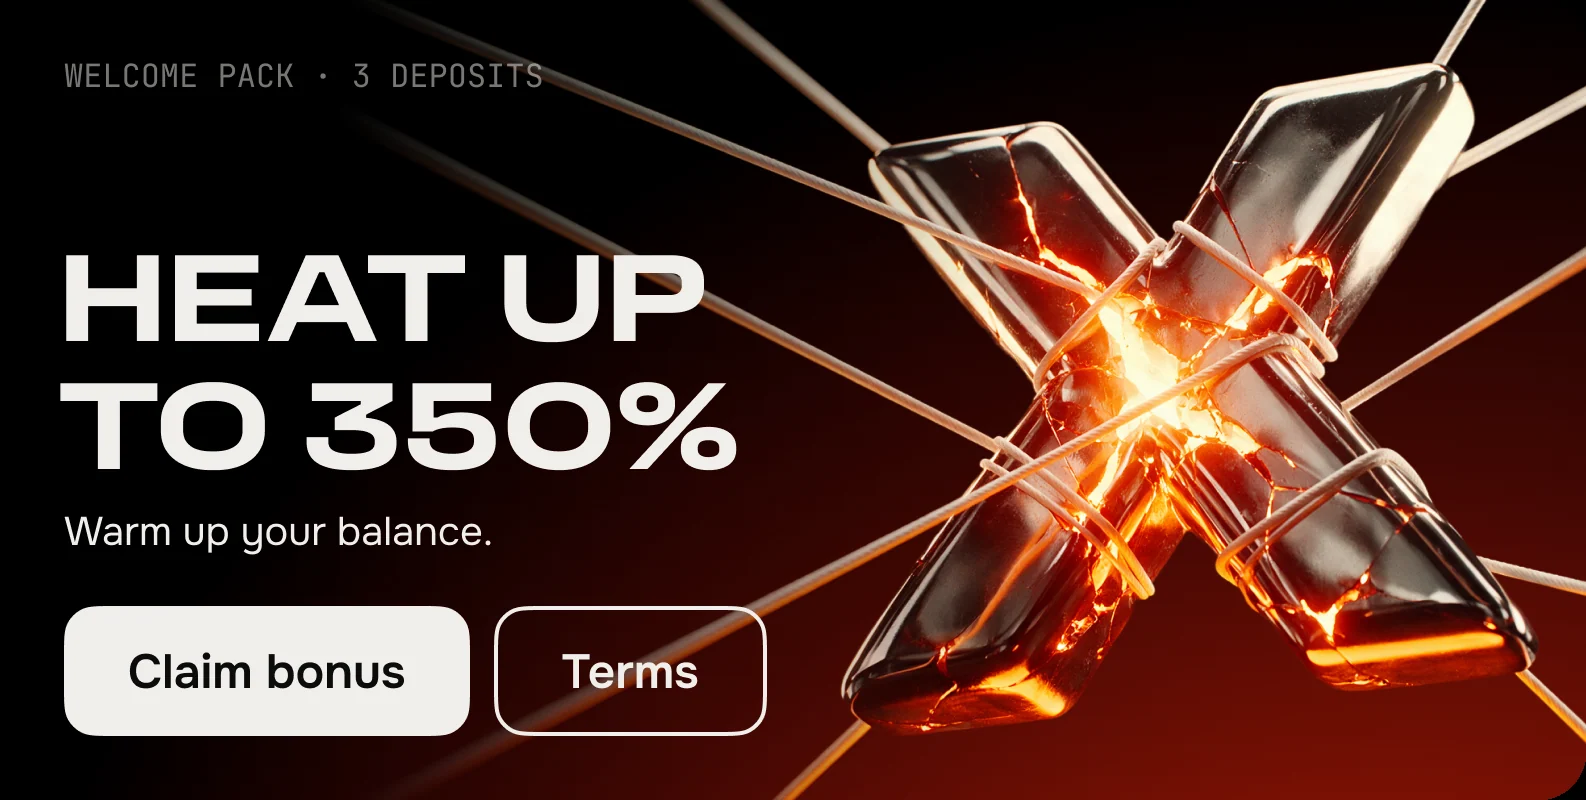
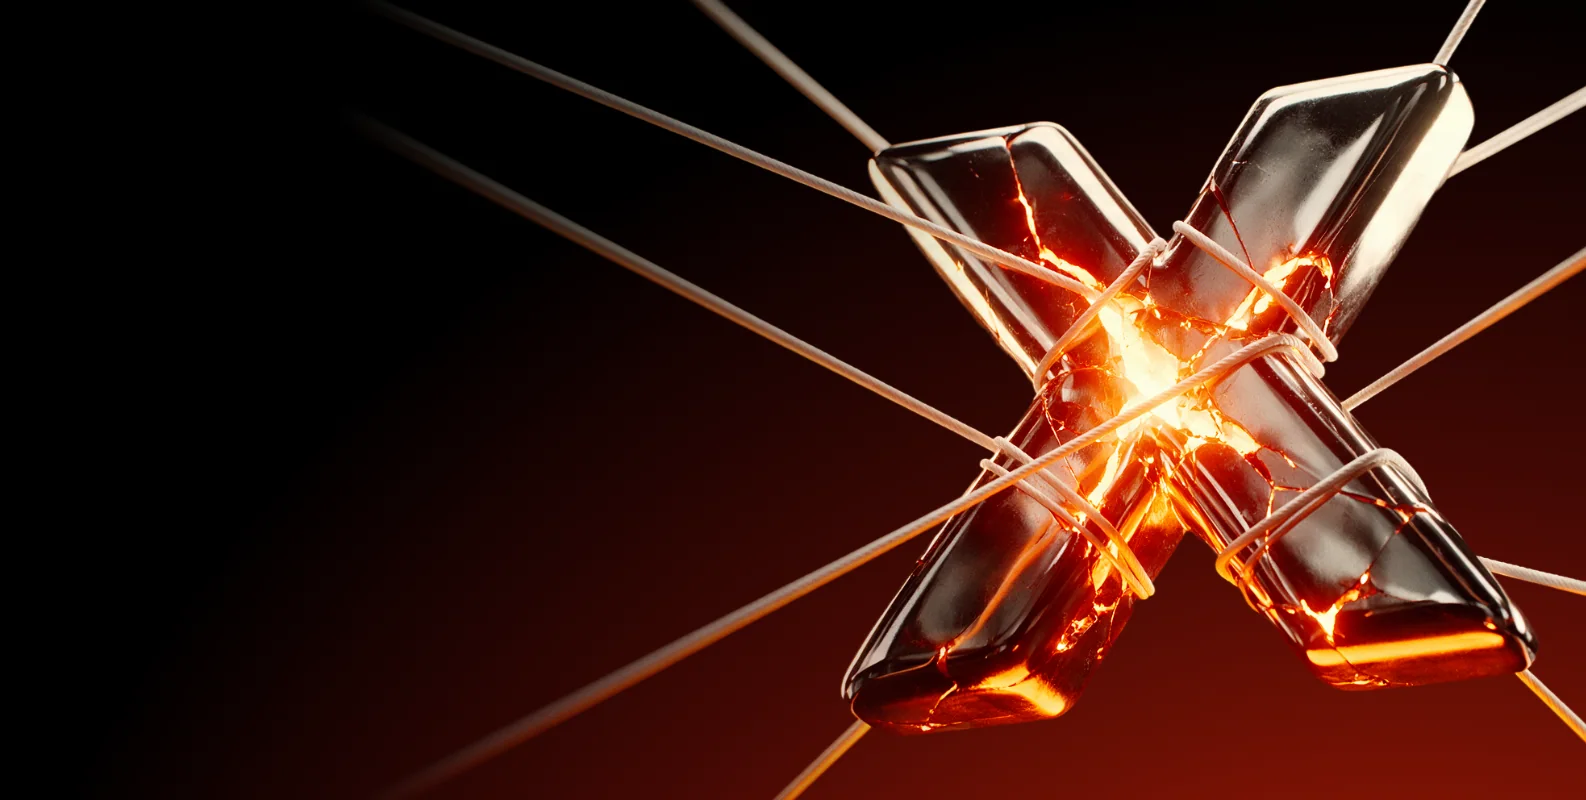
RioBet: баннеры ниже (300px), текст и кнопки живым HTML

diff --git a/index.html b/index.html
@@ -6691,8 +6691,8 @@ body:not(.is-authed) [data-auth-only] { display: none !important; }
    и на широком экране вытягивался в длинную тонкую полосу. Теперь высота
    своя, а карточки справа забирают больше ширины. */
 @media (min-width: 1024px) {
-  .hero__banner { aspect-ratio: 1586 / 800 !important; height: auto; }
-  .hero__side { flex: 0 0 38%; }
+  .hero__banner { aspect-ratio: auto !important; height: 300px; }
+  .hero__side { flex: 0 0 28%; }
 }
 
 /* Разделы в шапке — по образцу 1win: тёмная подложка, крупные вкладки,
@@ -6721,27 +6721,40 @@ body:not(.is-authed) [data-auth-only] { display: none !important; }
 .category-grid[hidden] { display: none; }
 
 /* ── Слайдер баннеров (Figma 315:4629) ──
-   Баннер 1586×800 показан целиком, поэтому коробка держит его пропорцию:
-   тогда невидимые кнопки ложатся ровно на нарисованные. */
-.bsl { position: relative; width: 100%; aspect-ratio: 1586 / 800; border-radius: inherit; overflow: hidden; }
+   Макет 1586×800. Текст и кнопки меряются в cqh — долях высоты баннера,
+   поэтому раскладка та же при любой пропорции; арт тянется по ширине и
+   прижат вправо. На компьютере баннер низкий и вытянутый (21:8), на
+   телефоне — пропорция макета. */
+.bsl { position: relative; width: 100%; aspect-ratio: 21 / 8; border-radius: inherit; overflow: hidden; background: #000; }
 .bsl__track { display: flex; width: 100%; height: 100%; overflow-x: auto; scroll-snap-type: x mandatory;
               scroll-behavior: smooth; scrollbar-width: none; }
 .bsl__track::-webkit-scrollbar { display: none; }
-.bsl__slide { position: relative; flex: 0 0 100%; height: 100%; scroll-snap-align: start; }
-.bsl__slide img { display: block; width: 100%; height: 100%; object-fit: cover; }
-.bsl__hot { position: absolute; top: 75.75%; height: 16.25%; padding: 0; border: 0; background: none;
-            border-radius: 4%/8%; cursor: pointer; }
-.bsl__hot--claim { left: 4.04%; width: 25.6%; }
-.bsl__hot--terms { left: 31.15%; width: 17.21%; }
-.bsl__hot--play { left: 4.04%; width: 21.37%; }
-.bsl__hot--terms-s { left: 27.24%; width: 17.21%; }
-.bsl__hot:hover { background: rgba(255, 255, 255, .08); }
-.bsl__hot:focus-visible { outline: 2px solid #fff; outline-offset: 2px; }
+.bsl__slide { position: relative; flex: 0 0 100%; height: 100%; scroll-snap-align: start; container-type: size; overflow: hidden; }
+.bsl__art { position: absolute; inset: 0; display: block; width: 100%; height: 100%; object-fit: cover; object-position: 100% 45%; }
+.bsl__txt { position: absolute; inset: 0; pointer-events: none; color: #f0eeea; }
+.bsl .bsl__info { position: absolute; left: 8cqh; top: 8cqh; font-family: 'JetBrains Mono', ui-monospace, monospace;
+             font-size: 4cqh; line-height: 1; text-transform: uppercase; opacity: .5; white-space: nowrap; }
+.bsl .bsl__title { position: absolute; max-width: none; color: #f0eeea; left: 7.25cqh; top: 28.6cqh; margin: 0; font-family: 'Archivo', 'Arial Black', sans-serif;
+              font-variation-settings: 'wdth' 112; font-stretch: 112%; font-weight: 800; font-size: 16cqh; line-height: 1;
+              letter-spacing: -.01em; text-transform: uppercase; white-space: nowrap; }
+.bsl .bsl__sub { position: absolute; max-width: none; color: #f0eeea; left: 8cqh; top: 63.2cqh; margin: 0; font-family: 'Onest', system-ui, sans-serif;
+            font-size: 5cqh; line-height: 1.1; white-space: nowrap; }
+.bsl .bsl__btns { position: absolute; left: 8cqh; top: 75.75cqh; display: flex; gap: 3cqh; pointer-events: auto; }
+.bsl .bsl__btn { box-sizing: border-box; height: 16.25cqh; padding: 0 8cqh; border-radius: 4cqh; cursor: pointer;
+            font-family: 'Onest', system-ui, sans-serif; font-weight: 600; font-size: 6cqh; line-height: 1; white-space: nowrap;
+            transition: background-color .15s ease, box-shadow .15s ease, transform .1s ease; }
+.bsl__btn--main { border: 0; background: #f0eeea; color: #0c0c0c; }
+.bsl__btn--main:hover { background: #fff; }
+.bsl__btn--ghost { border: .5cqh solid #f0eeea; background: none; color: #f0eeea; }
+.bsl__btn--ghost:hover { background: rgba(240, 238, 234, .1); }
+.bsl__btn:active { transform: translateY(1px); }
+.bsl__btn:focus-visible { outline: 2px solid #fff; outline-offset: 2px; }
 .bsl__dots { position: absolute; right: 3%; top: 7%; display: flex; gap: 6px; }
 .bsl__dots button { width: 16px; height: 4px; padding: 0; border: 0; border-radius: 999px; cursor: pointer;
                     background: rgba(240, 238, 234, .35); transition: width .2s ease, background-color .2s ease; }
 .bsl__dots button[aria-selected="true"] { width: 32px; background: #f0eeea; }
-@media (max-width: 767px) { .bsl__dots { top: 7%; bottom: auto; gap: 4px; } .bsl__dots button { width: 8px; } .bsl__dots button[aria-selected="true"] { width: 18px; } }
+@media (max-width: 1023px) { .bsl { aspect-ratio: 1586 / 800; } }
+@media (max-width: 767px) { .bsl__dots { gap: 4px; } .bsl__dots button { width: 8px; } .bsl__dots button[aria-selected="true"] { width: 18px; } }
 
 /* Главный баннер RioBet — слайдер баннеров; высота по пропорции баннера */
 .hero__banner .bsl { position: absolute; inset: 0; width: 100%; height: 100%; aspect-ratio: auto; }
@@ -6750,6 +6763,7 @@ body:not(.is-authed) [data-auth-only] { display: none !important; }
   .hero__mslides, .hero__dots { display: none !important; }
 }
 </style>
+<link href="https://fonts.googleapis.com/css2?family=Onest:wght@400;600&family=JetBrains+Mono:wght@400&family=Archivo:wdth,wght@62..125,700..800&display=swap" rel="stylesheet">
 </head>
 <body>
 <html lang="en">
@@ -6921,24 +6935,25 @@ body:not(.is-authed) [data-auth-only] { display: none !important; }
     <!-- 1126:15053 «Hero» — баннер 737 + колонка карточек 351, зазор 16 -->
     <section class="hero" data-node-id="1126:15053">
       <div class="hero__banner" data-node-id="1118:12299">
-        <!-- Баннеры из Figma (Design QA 315:4629): картинка баннера целиком,
-             поверх нарисованных кнопок — настоящие кнопки-невидимки. -->
+        <!-- Баннеры из Figma (Design QA 315:4629). Арт — картинкой, текст и кнопки —
+             живым HTML: так баннер держит любую пропорцию, а размеры текста
+             считаются от его высоты (container query), как в макете 1586×800. -->
         <div class="bsl" data-bsl aria-roledescription="carousel" aria-label="Promotions">
           <div class="bsl__track">
-            <div class="bsl__slide" role="group" aria-roledescription="slide"><img src="a/pbn-heat-1.webp" alt="Heat up to 350% — welcome pack" width="1586" height="800"><button class="bsl__hot bsl__hot--claim" type="button" data-fgo="auth:reg" aria-label="Claim bonus"></button><button class="bsl__hot bsl__hot--terms" type="button" data-fgo="view:promo" aria-label="Terms"></button></div>
-            <div class="bsl__slide" role="group" aria-roledescription="slide"><img src="a/pbn-zeus.webp" alt="Zeus Fridays — 20 free spins on Gates of Olympus" width="1586" height="800"><button class="bsl__hot bsl__hot--claim" type="button" data-fgo="auth:reg" aria-label="Claim bonus"></button><button class="bsl__hot bsl__hot--terms" type="button" data-fgo="view:promo" aria-label="Terms"></button></div>
-            <div class="bsl__slide" role="group" aria-roledescription="slide"><img src="a/pbn-freespins.webp" alt="Welcome free spins for new players" width="1586" height="800"><button class="bsl__hot bsl__hot--claim" type="button" data-fgo="auth:reg" aria-label="Claim bonus"></button><button class="bsl__hot bsl__hot--terms" type="button" data-fgo="view:promo" aria-label="Terms"></button></div>
-            <div class="bsl__slide" role="group" aria-roledescription="slide"><img src="a/pbn-referral.webp" alt="Referral program — 5% of friends’ net loss" width="1586" height="800"><button class="bsl__hot bsl__hot--claim" type="button" data-fgo="auth:reg" aria-label="Claim bonus"></button><button class="bsl__hot bsl__hot--terms" type="button" data-fgo="view:promo" aria-label="Terms"></button></div>
-            <div class="bsl__slide" role="group" aria-roledescription="slide"><img src="a/pbn-sport.webp" alt="Sport event" width="1586" height="800"><button class="bsl__hot bsl__hot--play" type="button" data-fgo="msg:Sport is coming soon." aria-label="Play now"></button><button class="bsl__hot bsl__hot--terms-s" type="button" data-fgo="view:promo" aria-label="Terms"></button></div>
-            <div class="bsl__slide" role="group" aria-roledescription="slide"><img src="a/pbn-heat-2.webp" alt="Heat up to 350%" width="1586" height="800"><button class="bsl__hot bsl__hot--claim" type="button" data-fgo="auth:reg" aria-label="Claim bonus"></button><button class="bsl__hot bsl__hot--terms" type="button" data-fgo="view:promo" aria-label="Terms"></button></div>
-            <div class="bsl__slide" role="group" aria-roledescription="slide"><img src="a/pbn-heat-3.webp" alt="Heat up to 350%" width="1586" height="800"><button class="bsl__hot bsl__hot--claim" type="button" data-fgo="auth:reg" aria-label="Claim bonus"></button><button class="bsl__hot bsl__hot--terms" type="button" data-fgo="view:promo" aria-label="Terms"></button></div>
-            <div class="bsl__slide" role="group" aria-roledescription="slide"><img src="a/pbn-heat-4.webp" alt="Heat up to 350%" width="1586" height="800"><button class="bsl__hot bsl__hot--claim" type="button" data-fgo="auth:reg" aria-label="Claim bonus"></button><button class="bsl__hot bsl__hot--terms" type="button" data-fgo="view:promo" aria-label="Terms"></button></div>
-            <div class="bsl__slide" role="group" aria-roledescription="slide"><img src="a/pbn-heat-5.webp" alt="Heat up to 350%" width="1586" height="800"><button class="bsl__hot bsl__hot--claim" type="button" data-fgo="auth:reg" aria-label="Claim bonus"></button><button class="bsl__hot bsl__hot--terms" type="button" data-fgo="view:promo" aria-label="Terms"></button></div>
-            <div class="bsl__slide" role="group" aria-roledescription="slide"><img src="a/pbn-heat-6.webp" alt="Heat up to 350%" width="1586" height="800"><button class="bsl__hot bsl__hot--claim" type="button" data-fgo="auth:reg" aria-label="Claim bonus"></button><button class="bsl__hot bsl__hot--terms" type="button" data-fgo="view:promo" aria-label="Terms"></button></div>
-            <div class="bsl__slide" role="group" aria-roledescription="slide"><img src="a/pbn-heat-7.webp" alt="Heat up to 350%" width="1586" height="800"><button class="bsl__hot bsl__hot--claim" type="button" data-fgo="auth:reg" aria-label="Claim bonus"></button><button class="bsl__hot bsl__hot--terms" type="button" data-fgo="view:promo" aria-label="Terms"></button></div>
-            <div class="bsl__slide" role="group" aria-roledescription="slide"><img src="a/pbn-heat-8.webp" alt="Heat up to 350%" width="1586" height="800"><button class="bsl__hot bsl__hot--claim" type="button" data-fgo="auth:reg" aria-label="Claim bonus"></button><button class="bsl__hot bsl__hot--terms" type="button" data-fgo="view:promo" aria-label="Terms"></button></div>
-            <div class="bsl__slide" role="group" aria-roledescription="slide"><img src="a/pbn-heat-9.webp" alt="Heat up to 350%" width="1586" height="800"><button class="bsl__hot bsl__hot--claim" type="button" data-fgo="auth:reg" aria-label="Claim bonus"></button><button class="bsl__hot bsl__hot--terms" type="button" data-fgo="view:promo" aria-label="Terms"></button></div>
-            <div class="bsl__slide" role="group" aria-roledescription="slide"><img src="a/pbn-heat-10.webp" alt="Heat up to 350%" width="1586" height="800"><button class="bsl__hot bsl__hot--claim" type="button" data-fgo="auth:reg" aria-label="Claim bonus"></button><button class="bsl__hot bsl__hot--terms" type="button" data-fgo="view:promo" aria-label="Terms"></button></div>
+            <div class="bsl__slide" role="group" aria-roledescription="slide"><img class="bsl__art" src="a/pbn-heat-1.webp" alt="" width="1586" height="800"><div class="bsl__txt"><span class="bsl__info">Welcome pack · 3 deposits</span><h3 class="bsl__title">Heat up<br>to 350%</h3><p class="bsl__sub">Warm up your balance.</p><div class="bsl__btns"><button class="bsl__btn bsl__btn--main" type="button" data-fgo="auth:reg">Claim bonus</button><button class="bsl__btn bsl__btn--ghost" type="button" data-fgo="view:promo">Terms</button></div></div></div>
+            <div class="bsl__slide" role="group" aria-roledescription="slide"><img class="bsl__art" src="a/pbn-zeus.webp" alt="" width="1586" height="800"><div class="bsl__txt"><span class="bsl__info">Every Friday, 20:00 UTC</span><h3 class="bsl__title">Zeus<br>Fridays</h3><p class="bsl__sub">Get 20 FS on Gates of Olympus</p><div class="bsl__btns"><button class="bsl__btn bsl__btn--main" type="button" data-fgo="auth:reg">Claim bonus</button><button class="bsl__btn bsl__btn--ghost" type="button" data-fgo="view:promo">Terms</button></div></div></div>
+            <div class="bsl__slide" role="group" aria-roledescription="slide"><img class="bsl__art" src="a/pbn-freespins.webp" alt="" width="1586" height="800"><div class="bsl__txt"><span class="bsl__info">Active for registration</span><h3 class="bsl__title">Welcome<br>freespins</h3><p class="bsl__sub">For new players</p><div class="bsl__btns"><button class="bsl__btn bsl__btn--main" type="button" data-fgo="auth:reg">Claim bonus</button><button class="bsl__btn bsl__btn--ghost" type="button" data-fgo="view:promo">Terms</button></div></div></div>
+            <div class="bsl__slide" role="group" aria-roledescription="slide"><img class="bsl__art" src="a/pbn-referral.webp" alt="" width="1586" height="800"><div class="bsl__txt"><span class="bsl__info">Active for registration</span><h3 class="bsl__title">Referal<br>program</h3><p class="bsl__sub">5% of invited friend’s net loss for 30 days</p><div class="bsl__btns"><button class="bsl__btn bsl__btn--main" type="button" data-fgo="auth:reg">Claim bonus</button><button class="bsl__btn bsl__btn--ghost" type="button" data-fgo="view:promo">Terms</button></div></div></div>
+            <div class="bsl__slide" role="group" aria-roledescription="slide"><img class="bsl__art" src="a/pbn-sport.webp" alt="" width="1586" height="800"><div class="bsl__txt"><span class="bsl__info">Sport event, 20:00 UTC</span><h3 class="bsl__title">Sport<br>banner</h3><p class="bsl__sub">Make the move</p><div class="bsl__btns"><button class="bsl__btn bsl__btn--main" type="button" data-fgo="msg:Sport is coming soon.">Play now</button><button class="bsl__btn bsl__btn--ghost" type="button" data-fgo="view:promo">Terms</button></div></div></div>
+            <div class="bsl__slide" role="group" aria-roledescription="slide"><img class="bsl__art" src="a/pbn-heat-2.webp" alt="" width="1586" height="800"><div class="bsl__txt"><span class="bsl__info">Welcome pack · 3 deposits</span><h3 class="bsl__title">Heat up<br>to 350%</h3><p class="bsl__sub">Warm up your balance.</p><div class="bsl__btns"><button class="bsl__btn bsl__btn--main" type="button" data-fgo="auth:reg">Claim bonus</button><button class="bsl__btn bsl__btn--ghost" type="button" data-fgo="view:promo">Terms</button></div></div></div>
+            <div class="bsl__slide" role="group" aria-roledescription="slide"><img class="bsl__art" src="a/pbn-heat-3.webp" alt="" width="1586" height="800"><div class="bsl__txt"><span class="bsl__info">Welcome pack · 3 deposits</span><h3 class="bsl__title">Heat up<br>to 350%</h3><p class="bsl__sub">Warm up your balance.</p><div class="bsl__btns"><button class="bsl__btn bsl__btn--main" type="button" data-fgo="auth:reg">Claim bonus</button><button class="bsl__btn bsl__btn--ghost" type="button" data-fgo="view:promo">Terms</button></div></div></div>
+            <div class="bsl__slide" role="group" aria-roledescription="slide"><img class="bsl__art" src="a/pbn-heat-4.webp" alt="" width="1586" height="800"><div class="bsl__txt"><span class="bsl__info">Welcome pack · 3 deposits</span><h3 class="bsl__title">Heat up<br>to 350%</h3><p class="bsl__sub">Warm up your balance.</p><div class="bsl__btns"><button class="bsl__btn bsl__btn--main" type="button" data-fgo="auth:reg">Claim bonus</button><button class="bsl__btn bsl__btn--ghost" type="button" data-fgo="view:promo">Terms</button></div></div></div>
+            <div class="bsl__slide" role="group" aria-roledescription="slide"><img class="bsl__art" src="a/pbn-heat-5.webp" alt="" width="1586" height="800"><div class="bsl__txt"><span class="bsl__info">Welcome pack · 3 deposits</span><h3 class="bsl__title">Heat up<br>to 350%</h3><p class="bsl__sub">Warm up your balance.</p><div class="bsl__btns"><button class="bsl__btn bsl__btn--main" type="button" data-fgo="auth:reg">Claim bonus</button><button class="bsl__btn bsl__btn--ghost" type="button" data-fgo="view:promo">Terms</button></div></div></div>
+            <div class="bsl__slide" role="group" aria-roledescription="slide"><img class="bsl__art" src="a/pbn-heat-6.webp" alt="" width="1586" height="800"><div class="bsl__txt"><span class="bsl__info">Welcome pack · 3 deposits</span><h3 class="bsl__title">Heat up<br>to 350%</h3><p class="bsl__sub">Warm up your balance.</p><div class="bsl__btns"><button class="bsl__btn bsl__btn--main" type="button" data-fgo="auth:reg">Claim bonus</button><button class="bsl__btn bsl__btn--ghost" type="button" data-fgo="view:promo">Terms</button></div></div></div>
+            <div class="bsl__slide" role="group" aria-roledescription="slide"><img class="bsl__art" src="a/pbn-heat-7.webp" alt="" width="1586" height="800"><div class="bsl__txt"><span class="bsl__info">Welcome pack · 3 deposits</span><h3 class="bsl__title">Heat up<br>to 350%</h3><p class="bsl__sub">Warm up your balance.</p><div class="bsl__btns"><button class="bsl__btn bsl__btn--main" type="button" data-fgo="auth:reg">Claim bonus</button><button class="bsl__btn bsl__btn--ghost" type="button" data-fgo="view:promo">Terms</button></div></div></div>
+            <div class="bsl__slide" role="group" aria-roledescription="slide"><img class="bsl__art" src="a/pbn-heat-8.webp" alt="" width="1586" height="800"><div class="bsl__txt"><span class="bsl__info">Welcome pack · 3 deposits</span><h3 class="bsl__title">Heat up<br>to 350%</h3><p class="bsl__sub">Warm up your balance.</p><div class="bsl__btns"><button class="bsl__btn bsl__btn--main" type="button" data-fgo="auth:reg">Claim bonus</button><button class="bsl__btn bsl__btn--ghost" type="button" data-fgo="view:promo">Terms</button></div></div></div>
+            <div class="bsl__slide" role="group" aria-roledescription="slide"><img class="bsl__art" src="a/pbn-heat-9.webp" alt="" width="1586" height="800"><div class="bsl__txt"><span class="bsl__info">Welcome pack · 3 deposits</span><h3 class="bsl__title">Heat up<br>to 350%</h3><p class="bsl__sub">Warm up your balance.</p><div class="bsl__btns"><button class="bsl__btn bsl__btn--main" type="button" data-fgo="auth:reg">Claim bonus</button><button class="bsl__btn bsl__btn--ghost" type="button" data-fgo="view:promo">Terms</button></div></div></div>
+            <div class="bsl__slide" role="group" aria-roledescription="slide"><img class="bsl__art" src="a/pbn-heat-10.webp" alt="" width="1586" height="800"><div class="bsl__txt"><span class="bsl__info">Welcome pack · 3 deposits</span><h3 class="bsl__title">Heat up<br>to 350%</h3><p class="bsl__sub">Warm up your balance.</p><div class="bsl__btns"><button class="bsl__btn bsl__btn--main" type="button" data-fgo="auth:reg">Claim bonus</button><button class="bsl__btn bsl__btn--ghost" type="button" data-fgo="view:promo">Terms</button></div></div></div>
           </div>
           <div class="bsl__dots" role="tablist" aria-label="Banners"></div>
         </div>
